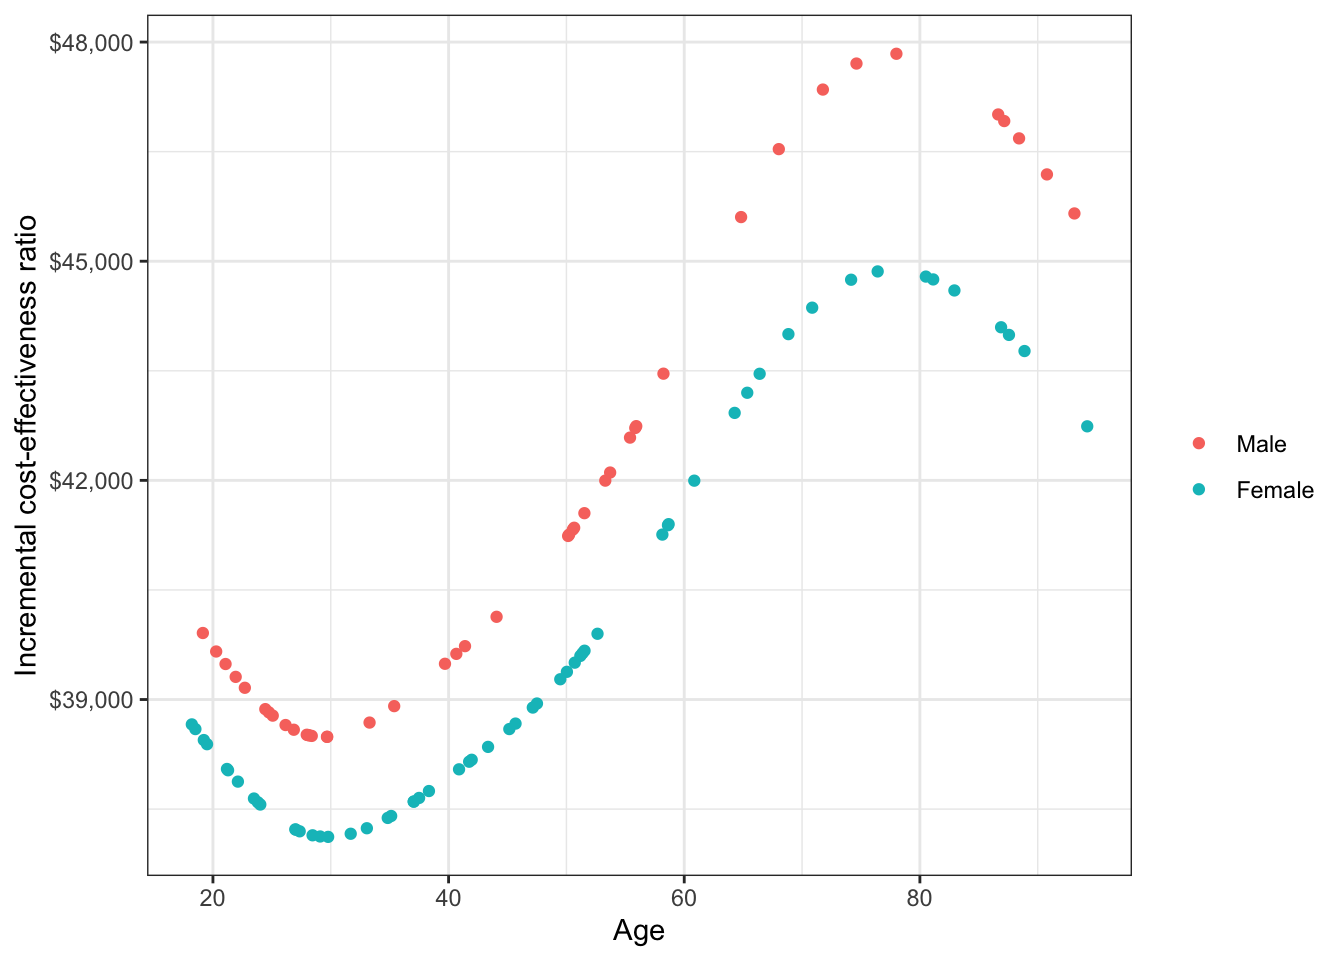
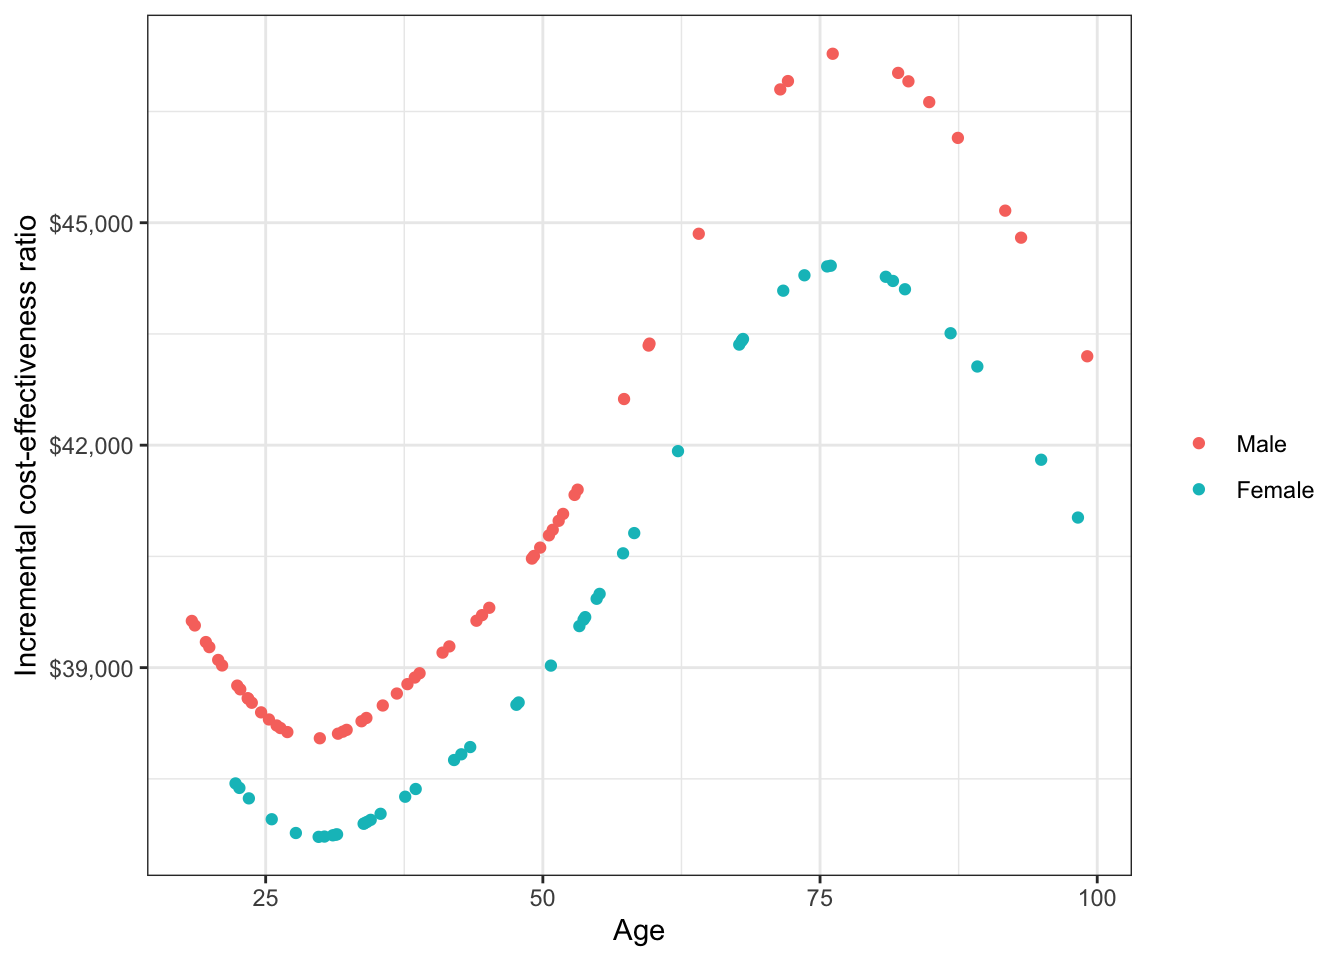
Reduce number of PSA samples in mlogit vignette to avoid memory allocation problems in Travis

diff --git a/docs/dev/articles/mlogit.html b/docs/dev/articles/mlogit.html
@@ -106,7 +106,7 @@
     <div class="page-header toc-ignore">
       <h1>Markov models with multinomial logistic regression</h1>
             
-            <h4 class="date">2020-03-03</h4>
+            <h4 class="date">2020-03-08</h4>
       
       <small class="dont-index">Source: <a href="https://github.com/hesim-dev/hesim/blob/master/vignettes/mlogit.Rmd"><code>vignettes/mlogit.Rmd</code></a></small>
       <div class="hidden name"><code>mlogit.Rmd</code></div>
@@ -169,12 +169,12 @@ Pr(y_{t+1} = s| y_t = r) = \frac{e^{x_r\beta_{rs}}}{\sum_{h=1}^{H}e^{x_r\beta_{r
 <span id="cb5-4"><a href="#cb5-4"></a>  , grp_id <span class="op">:</span><span class="er">=</span><span class="st"> </span><span class="dv">1</span><span class="op">:</span>n_patients]</span>
 <span id="cb5-5"><a href="#cb5-5"></a><span class="kw"><a href="https://www.rdocumentation.org/packages/utils/topics/head">head</a></span>(patients)</span></code></pre></div>
 <pre><code>##    patient_id      age female grp_id
-## 1:       1091 80.50759      1      1
-## 2:       2237 37.04089      1      2
-## 3:       8349 45.15489      1      3
-## 4:       1048 50.14583      0      4
-## 5:        646 50.54774      0      5
-## 6:       4549 58.62046      1      6</code></pre>
+## 1:       7111 19.60737      0      1
+## 2:       1052 40.95247      0      2
+## 3:       6037 53.67098      1      3
+## 4:       6850 72.10521      0      4
+## 5:       4952 22.28063      1      5
+## 6:       4674 57.32378      0      6</code></pre>
 <p>To perform the cost-effectiveness analysis, each patient is simulated twice, once with the reference treatment and once with the intervention. The non-death states use for simulating costs and quality-adjusted life-years (QALYs) are the healthy and sick states.</p>
 <div class="sourceCode" id="cb7"><pre class="sourceCode r"><code class="sourceCode r"><span id="cb7-1"><a href="#cb7-1"></a>hesim_dat &lt;-<span class="st"> </span><span class="kw"><a href="../reference/hesim_data.html">hesim_data</a></span>(</span>
 <span id="cb7-2"><a href="#cb7-2"></a>  <span class="dt">patients =</span> patients,</span>
@@ -231,7 +231,7 @@ Pr(y_{t+1} = s| y_t = r) = \frac{e^{x_r\beta_{rs}}}{\sum_{h=1}^{H}e^{x_r\beta_{r
 <h1 class="hasAnchor">
 <a href="#simulation" class="anchor"></a><span class="header-section-number">4</span> Simulation</h1>
 <p>The economic model consists of a model for disease progression and models for assigning utility and cost values to health states. Since we are performing a PSA, we must specify the number of times to sample the parameters.</p>
-<div class="sourceCode" id="cb13"><pre class="sourceCode r"><code class="sourceCode r"><span id="cb13-1"><a href="#cb13-1"></a>n_samples &lt;-<span class="st"> </span><span class="dv">1000</span></span></code></pre></div>
+<div class="sourceCode" id="cb13"><pre class="sourceCode r"><code class="sourceCode r"><span id="cb13-1"><a href="#cb13-1"></a>n_samples &lt;-<span class="st"> </span><span class="dv">100</span></span></code></pre></div>
 <div id="constructing-the-economic-model" class="section level2">
 <h2 class="hasAnchor">
 <a href="#constructing-the-economic-model" class="anchor"></a><span class="header-section-number">4.1</span> Constructing the economic model</h2>
